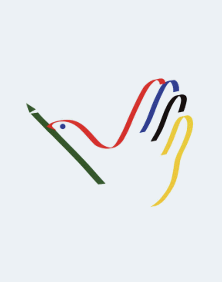
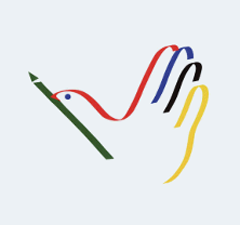
Featured height decreased as well as news items. Updated social media.

Changed region(s): [[0.1081, 0.1867, 0.8919, 0.84]]

diff --git a/em/skin/theme_resources/index.html b/em/skin/theme_resources/index.html
@@ -113,8 +113,6 @@
                     </div>
                     <ul id="news-right-portlet">
                         <li><a href="#"><h5>Competition: Bhinneka Tinggal Duka</h5>Bhinneka Tinggal Duka? Kompetisi Video Online (in)toleransi di Indonesia ini terbuka untuk publik!</a></li>
-                                        <li><a href="#"><h5>
-    Engagemedia, Malaysiakini, Cjmy, And The Online Citizen Host First Citizen Journalism</h5>Report on the first ever citizen journalism and online subtitling workshop in Singapore.</a></li>
                     </ul>
                 </div>
                 <div class="news-section shade">
@@ -138,6 +136,7 @@
                 </div>
 
                 <div class="news-section social-networks">
+                    <span>Stay in touch!</span>
                     <a href="http://twitter.com/EngageMedia" target="_blank"><div class="twitter"></div></a>
                     <a href="http://www.facebook.com/group.php?gid=43640854087" target="_blank"><div class="fb"></div></a>
                 </div>

diff --git a/em/skin/theme_resources/stylesheets/foundation.css b/em/skin/theme_resources/stylesheets/foundation.css
@@ -184,6 +184,13 @@ div.news div.social-networks {
     padding: 8px;
   }
 
+  div.news div.social-networks span {
+    display: block;
+    float: left;
+    padding-top: 14px;
+    font-weight: bold;
+  }
+
 div.news div.twitter {
     width: 28px;
     height: 28px;
@@ -205,15 +212,13 @@ div.news div.fb {
 div.featured-content {
   background: #fdfdfe;
   padding: 0;
-  height: 307px;
   border-bottom: 2px solid #aaa;
+  overflow: auto;
 }
 
 div.featured-content .featured-image {
   display: block;
   float: left;
-  height: 305px;
-  width: auto;
   background: #111;
 }
 
